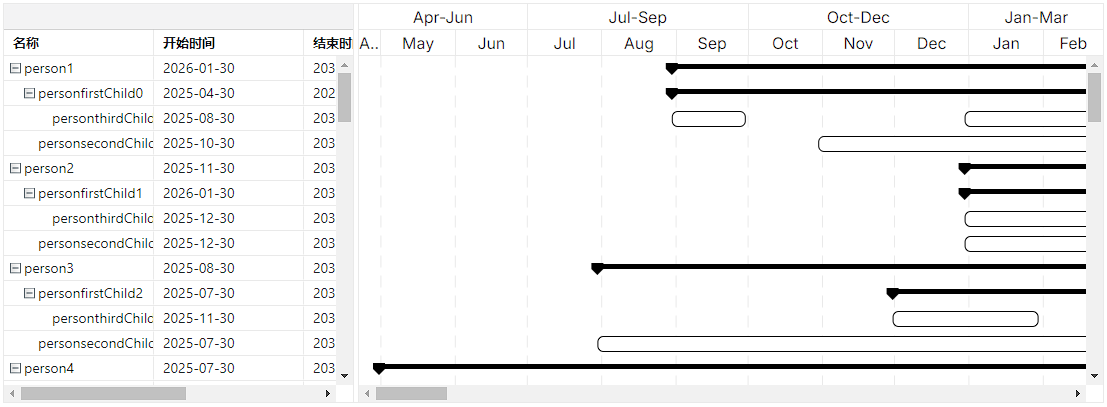
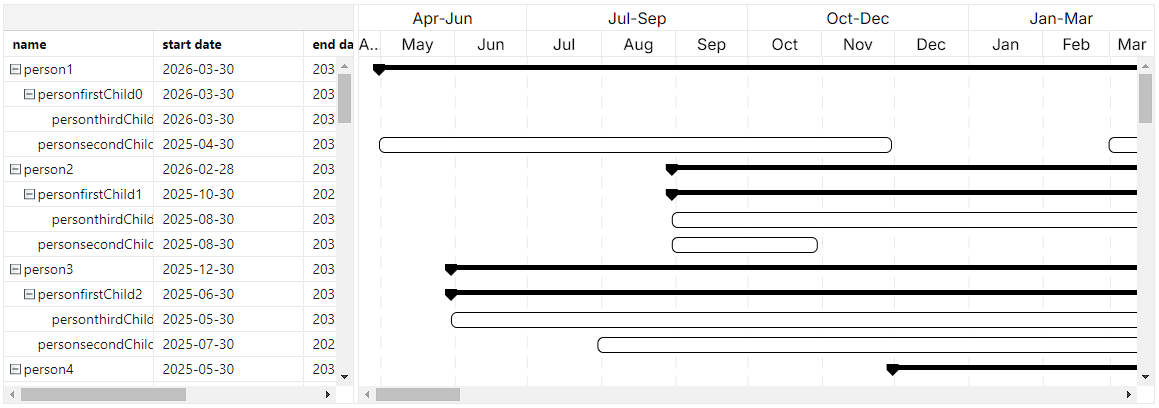
add sidebar

diff --git a/docs/.vitepress/config/en.ts b/docs/.vitepress/config/en.ts
@@ -54,38 +54,19 @@ function sidebarGuide(): DefaultTheme.SidebarItem[] {
   return [
     {
       text: 'Introduction',
-      collapsed: false,
-      items: [
-        { text: 'What is VitePress?', link: 'what-is-vitepress' },
-        { text: 'Getting Started', link: 'getting-started' },
-        { text: 'Routing', link: 'routing' },
-        { text: 'Deploy', link: 'deploy' }
-      ]
+      link: 'introduction'
     },
     {
-      text: 'Writing',
-      collapsed: false,
-      items: [
-        { text: 'Markdown Extensions', link: 'markdown' },
-        { text: 'Asset Handling', link: 'asset-handling' },
-        { text: 'Frontmatter', link: 'frontmatter' },
-        { text: 'Using Vue in Markdown', link: 'using-vue' },
-        { text: 'Internationalization', link: 'i18n' }
-      ]
+      text: 'Getting Started',
+      link: 'getting-started',
     },
     {
-      text: 'Customization',
-      collapsed: false,
-      items: [
-        { text: 'Using a Custom Theme', link: 'custom-theme' },
-        {
-          text: 'Extending the Default Theme',
-          link: 'extending-default-theme'
-        },
-        { text: 'Build-Time Data Loading', link: 'data-loading' },
-        { text: 'SSR Compatibility', link: 'ssr-compat' },
-        { text: 'Connecting to a CMS', link: 'cms' }
-      ]
+      text: 'Usage',
+      link: 'usage',
+    },
+    {
+      text: 'API',
+      link: 'api',
     }
   ];
 }

diff --git a/docs/.vitepress/config/index.ts b/docs/.vitepress/config/index.ts
@@ -7,6 +7,9 @@ import { zh } from './zh';
 export default defineConfig({
   title: "vue-gantt-3-docs",
   cleanUrls: true,
+  themeConfig: {
+    logo: { src: '/logo.svg', width: 24, height: 24 },
+  },
   locales: {
     'root': {
       label: 'English',

diff --git a/src/Gantt.vue b/src/Gantt.vue
@@ -86,7 +86,8 @@ const props = withDefaults(defineProps<GanttOption>(), {
   rowBuffer: 5,
   rowSelection: 'multiple',
   headerHeight: 25,
-  defaultShowFirstLevel: true
+  defaultShowFirstLevel: true,
+  locale: 'en',
 });
 
 const emit = defineEmits<{
